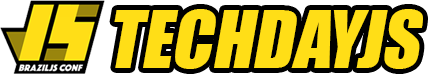
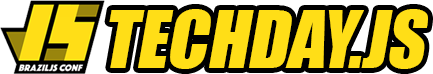
Mudança do header

diff --git a/reveal.js/css/braziljs.css b/reveal.js/css/braziljs.css
@@ -98,6 +98,7 @@
   height: 54px;
   margin: 10px;
   background-size: 300px;
+  float: left;
 }
 
 .topo .delorean {
@@ -110,14 +111,19 @@
 }
 
 .topo .slogan {
-  font-size: 23px !important;
+  font-size: 20px !important;
   font-weight: bold !important;
-  margin: -2px 0 0 24px !important;
-  font-style: italic !important;
+  float: left;
+  margin: 16px 0 0 -3px !important;
+  background-color: #000;
+  color: #EFEDED;
+  transform: skew(-15deg);
+  padding: 12px 20px;
+  text-transform: uppercase;
 }
 
 .header-white .topo .slogan {
-  color: #C1BFBF;
+  color: #EFEDED;
 }
 
 .footer {

diff --git a/reveal.js/index.html b/reveal.js/index.html
@@ -4,10 +4,7 @@
 	<head>
 		<meta charset="utf-8">
 
-		<title>Tech Day: Brazil JS - Javascript está em todo lugar e porque você deveria se interessar</title>
-
-		<meta name="description" content="A framework for easily creating beautiful presentations using HTML">
-		<meta name="author" content="Hakim El Hattab">
+		<title>TECHDAY.JS - Javascript está em todo lugar e porque você deveria se interessar</title>
 
 		<meta name="apple-mobile-web-app-capable" content="yes" />
 		<meta name="apple-mobile-web-app-status-bar-style" content="black-translucent" />
